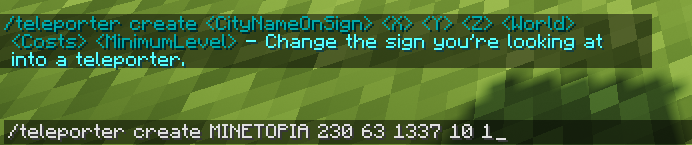
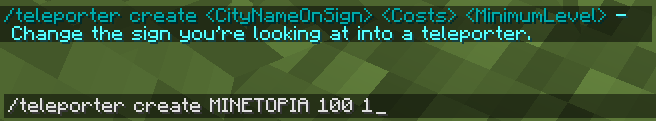
Changed Dutch teleporter info

diff --git a/tutorials/teleporters.md b/tutorials/teleporters.md
@@ -4,8 +4,11 @@ De MinetopiaSDB plugin heeft ondersteuning voor teleporters waarmee je gemakkeli
 
 ## Commands
 
-Je kunt een teleporter aanmaken door naar een bordje te kijken en dit commando uit te voeren: 
-``/teleporter create <Naam op bordje> <X> <Y> <Z> <Wereld> <Kosten> <Min. Level>``
+Om een positie te selecteren voor een teleporter moet je het volgende commando uitvoeren: 
+``/teleporter setlocation``
+
+Nadat je dit commando uitgevoerd hebt kun je een teleporter aanmaken door naar een bordje te kijken en dit commando uit te voeren: 
+``/teleporter create <Naam op bordje> <Kosten> <Min. Level>``
 
 ![Teleporter help page](./teleportercmd_help.png)
 
